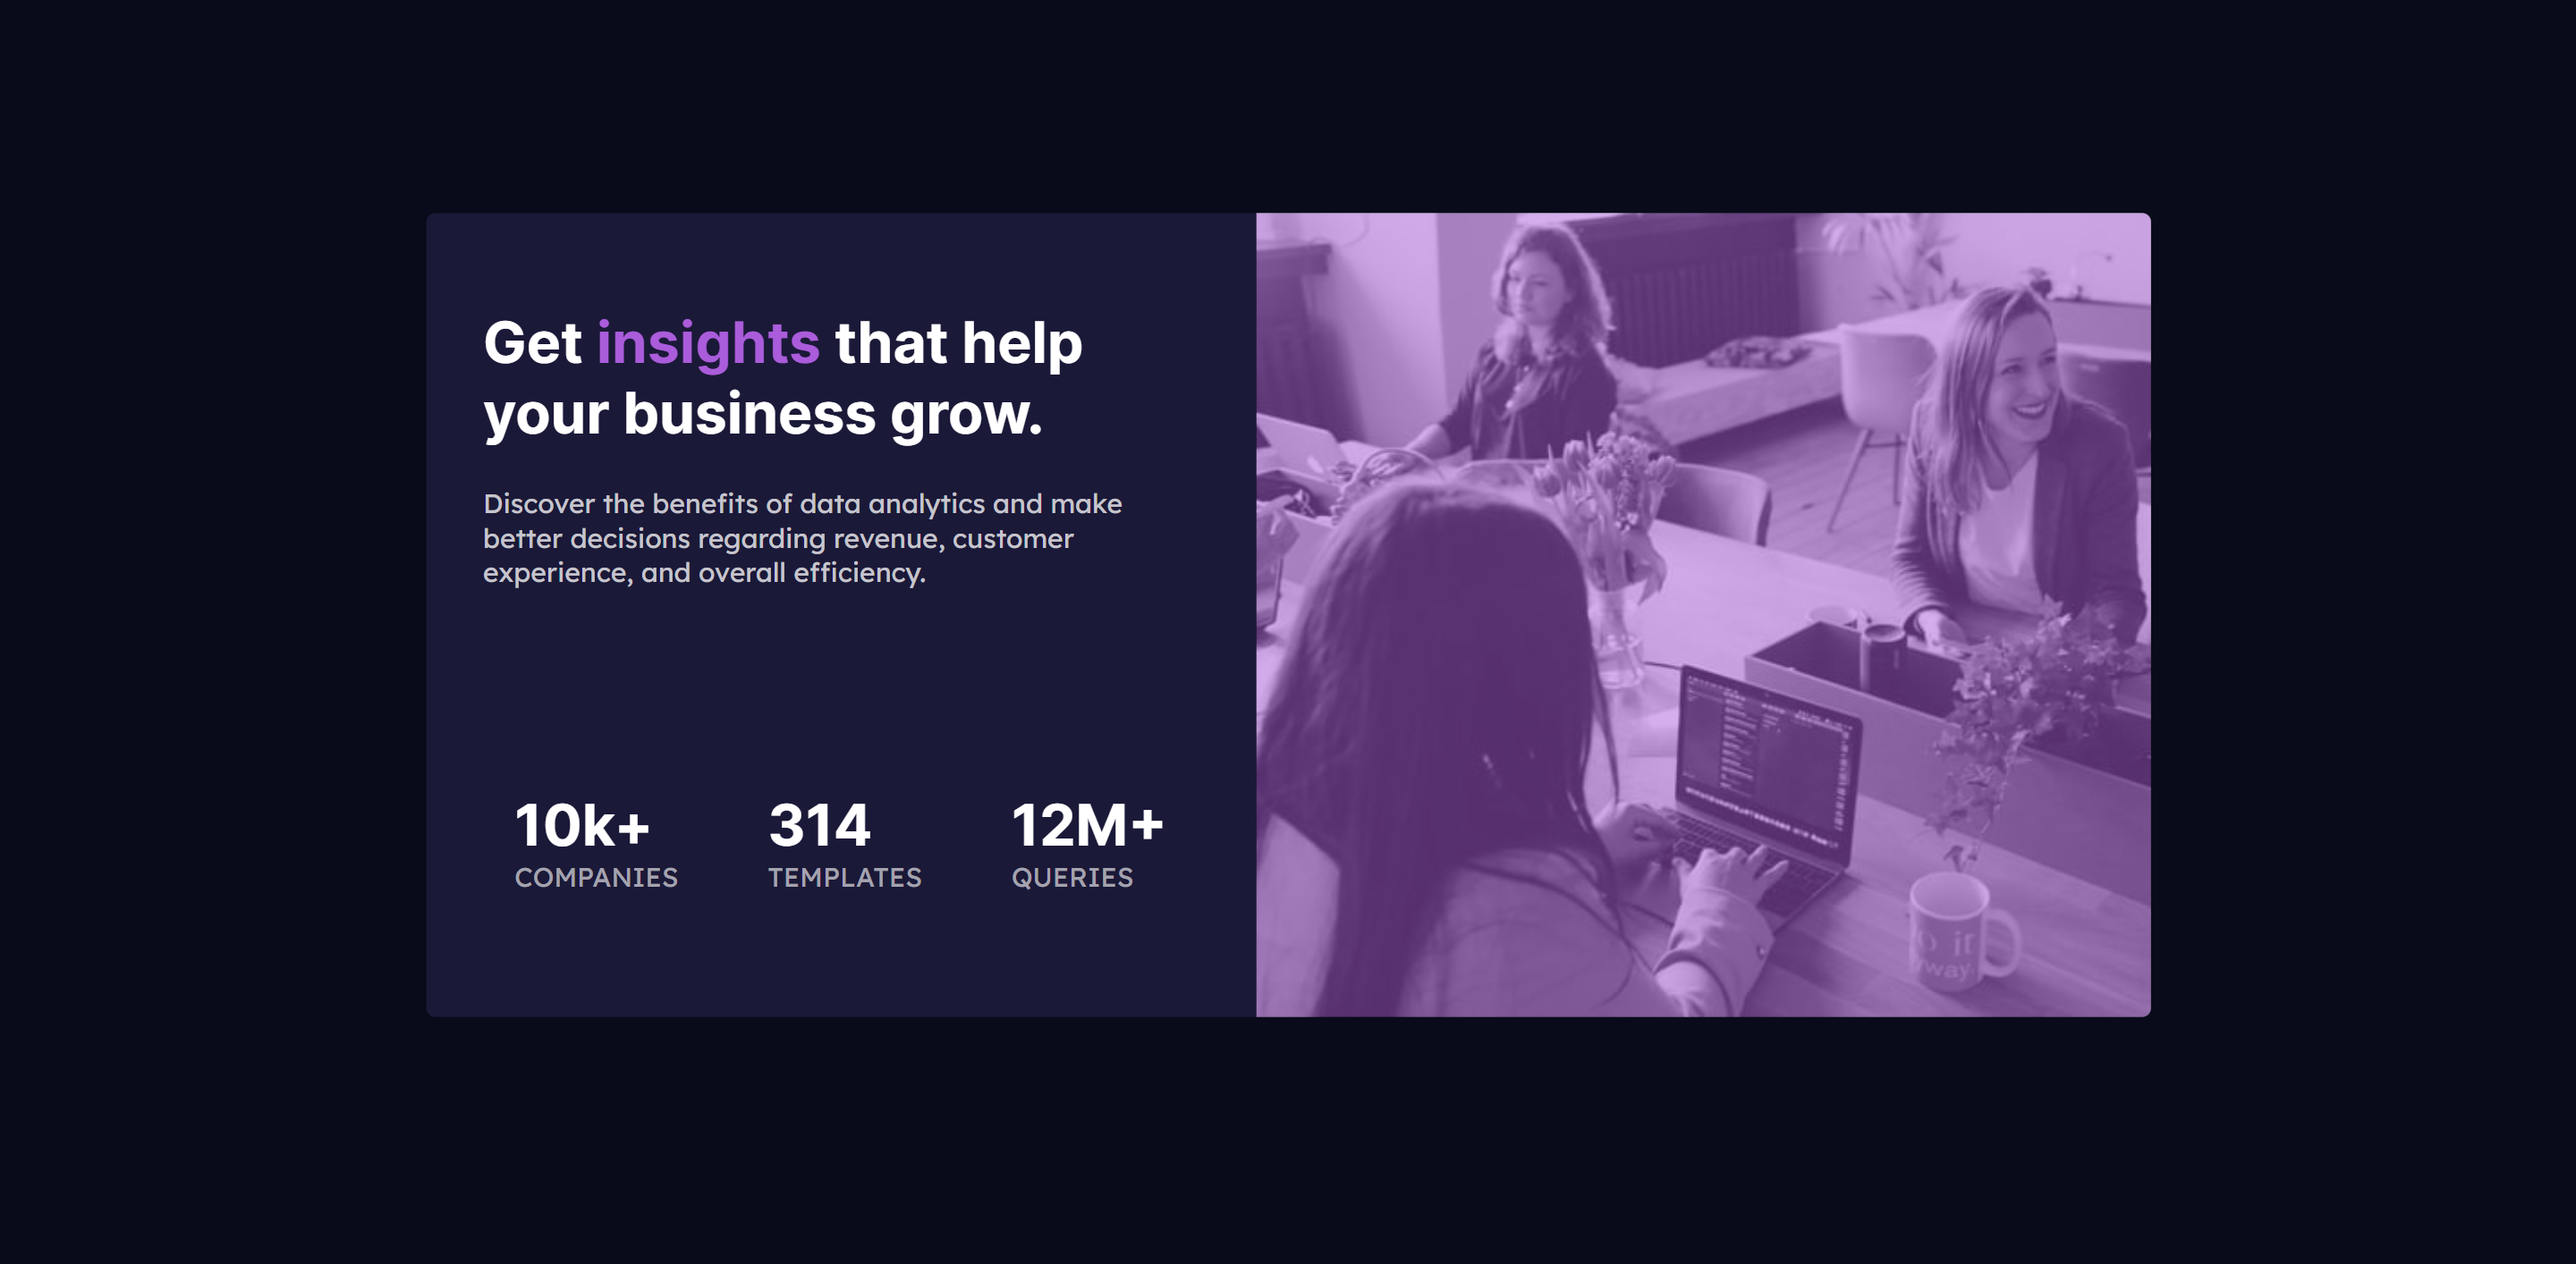
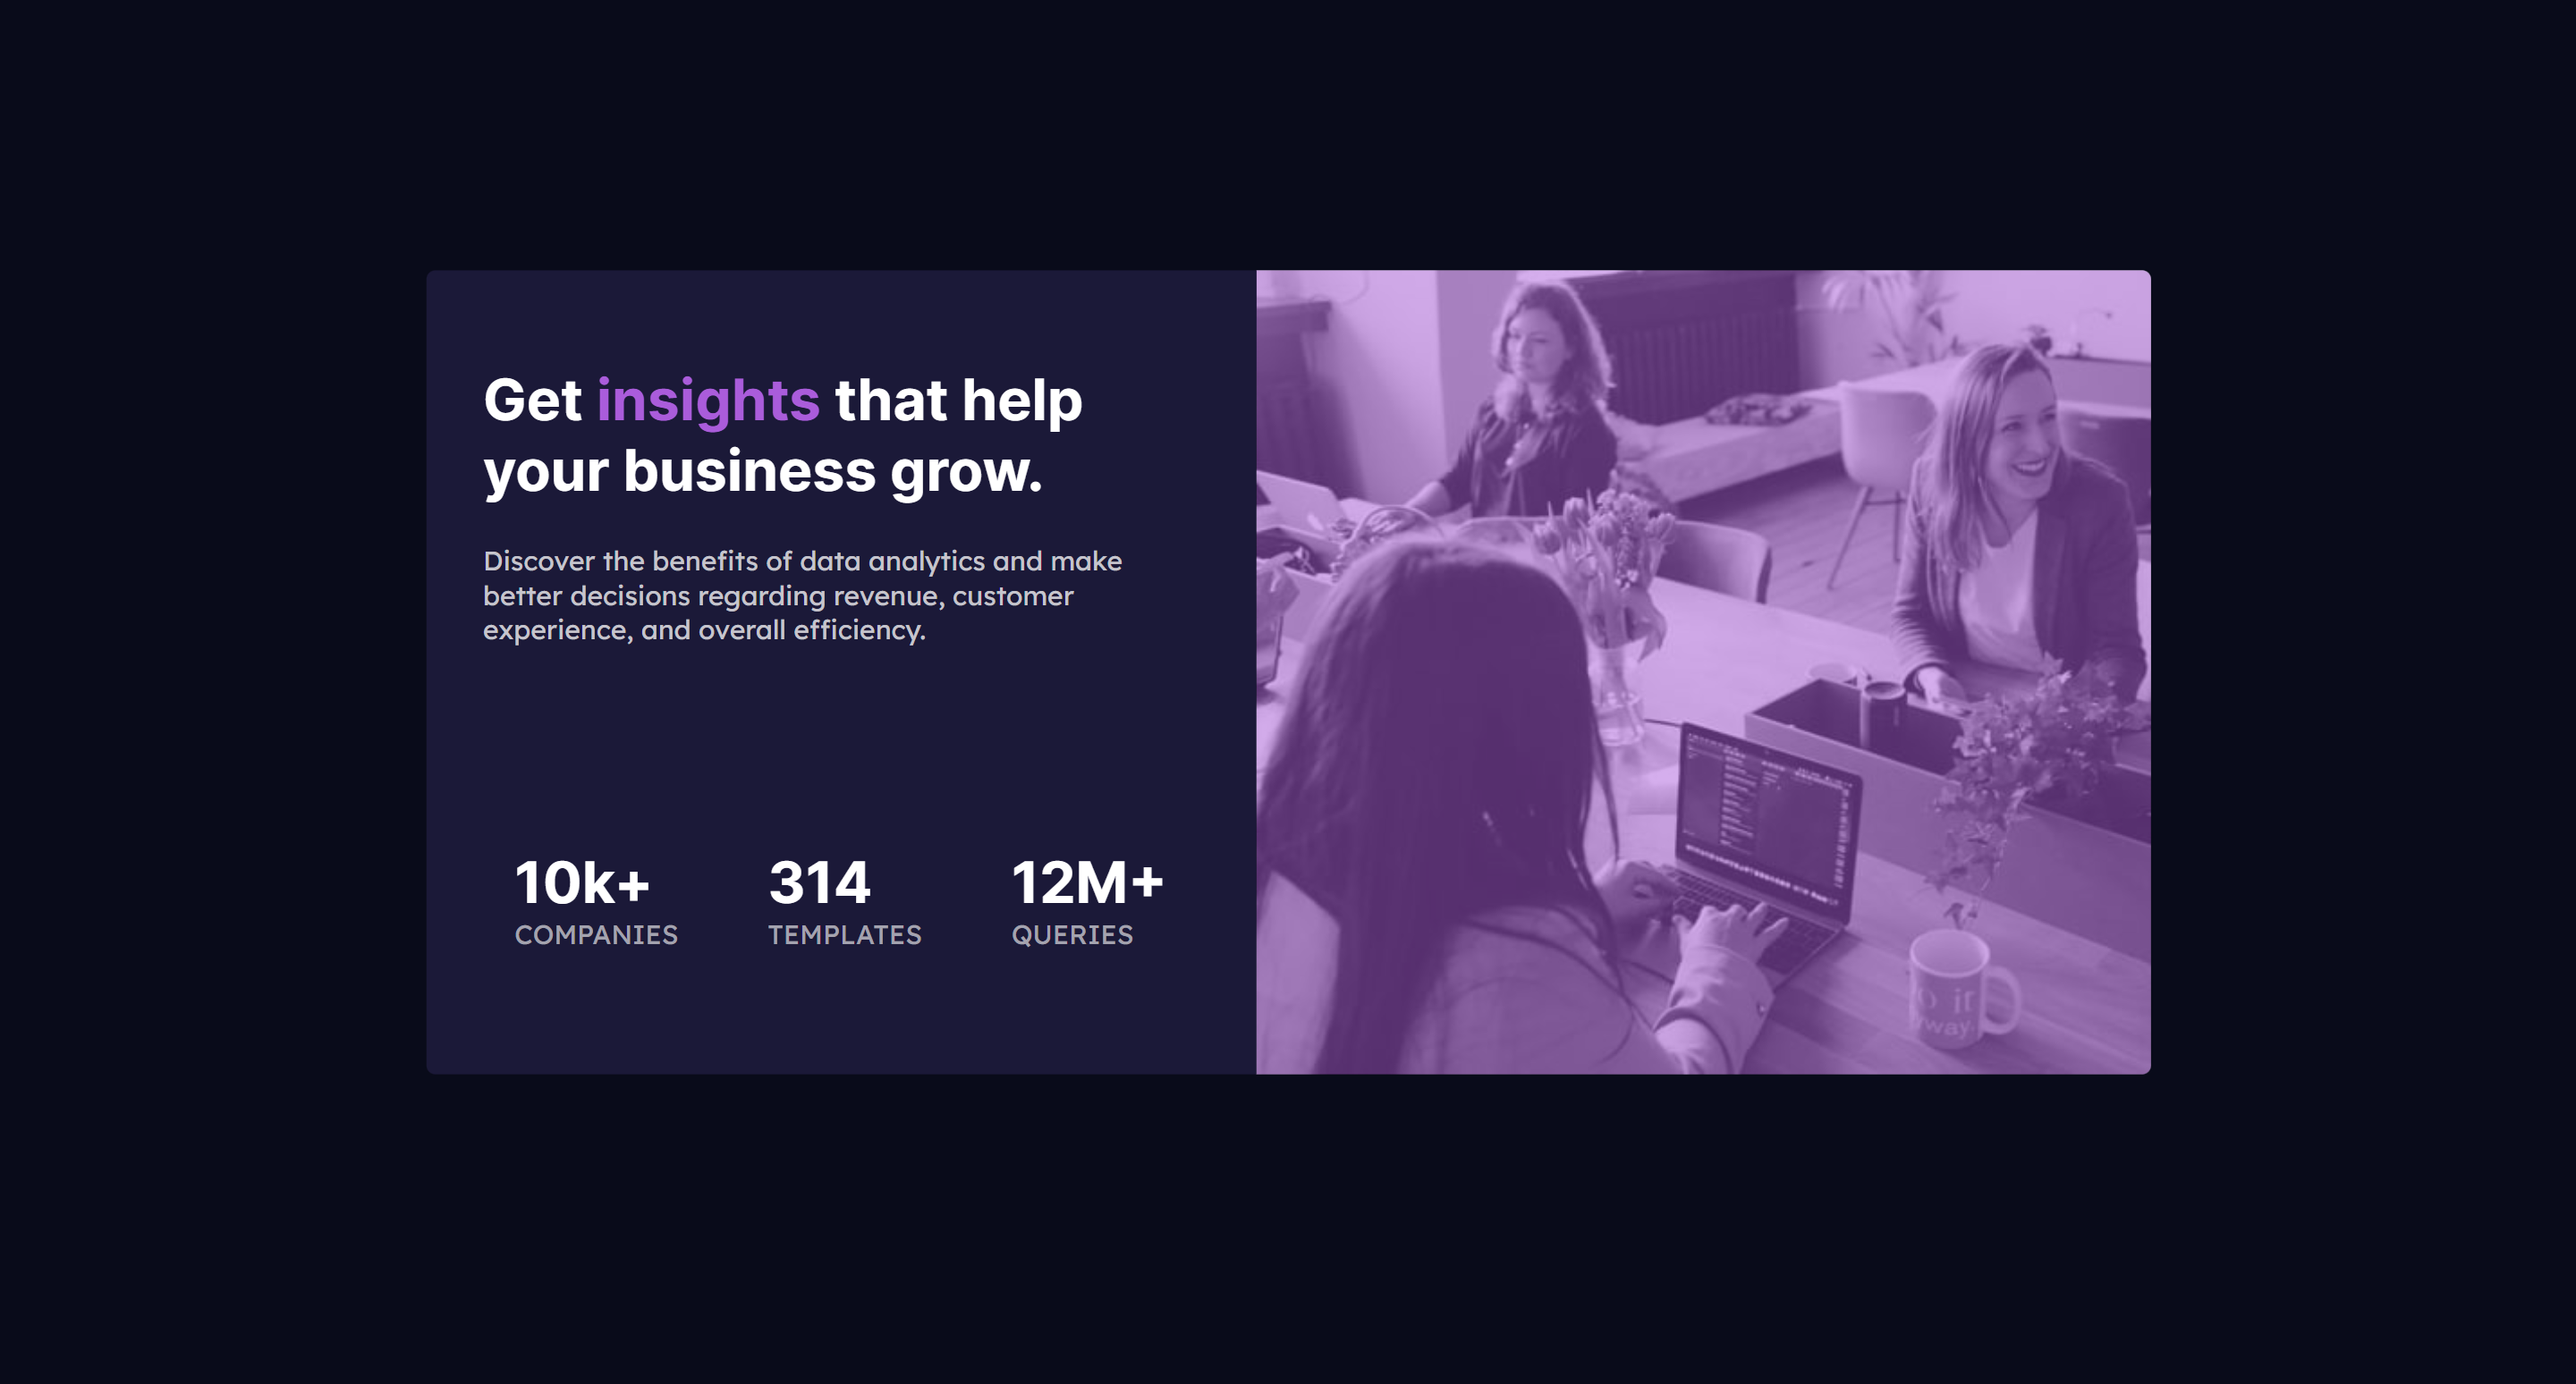
fixed border radius issues and replaced screenshots

diff --git a/styles.css b/styles.css
@@ -124,7 +124,7 @@ li {
     content: "QUERIES";
 }
 
-@media only screen and (max-width: 720px) and (min-width: 300px) {
+@media only screen and (max-width: 1000px) and (min-width: 300px) {
     .container {
         min-width: 230px;
         max-width: 420px;
@@ -148,6 +148,7 @@ li {
         max-width: 420px;
     }
     .header-img::after {
+        border-radius: 5px 5px 0 0;
         content: "";
         background-color: var(--clr-accent);
         position: absolute;
